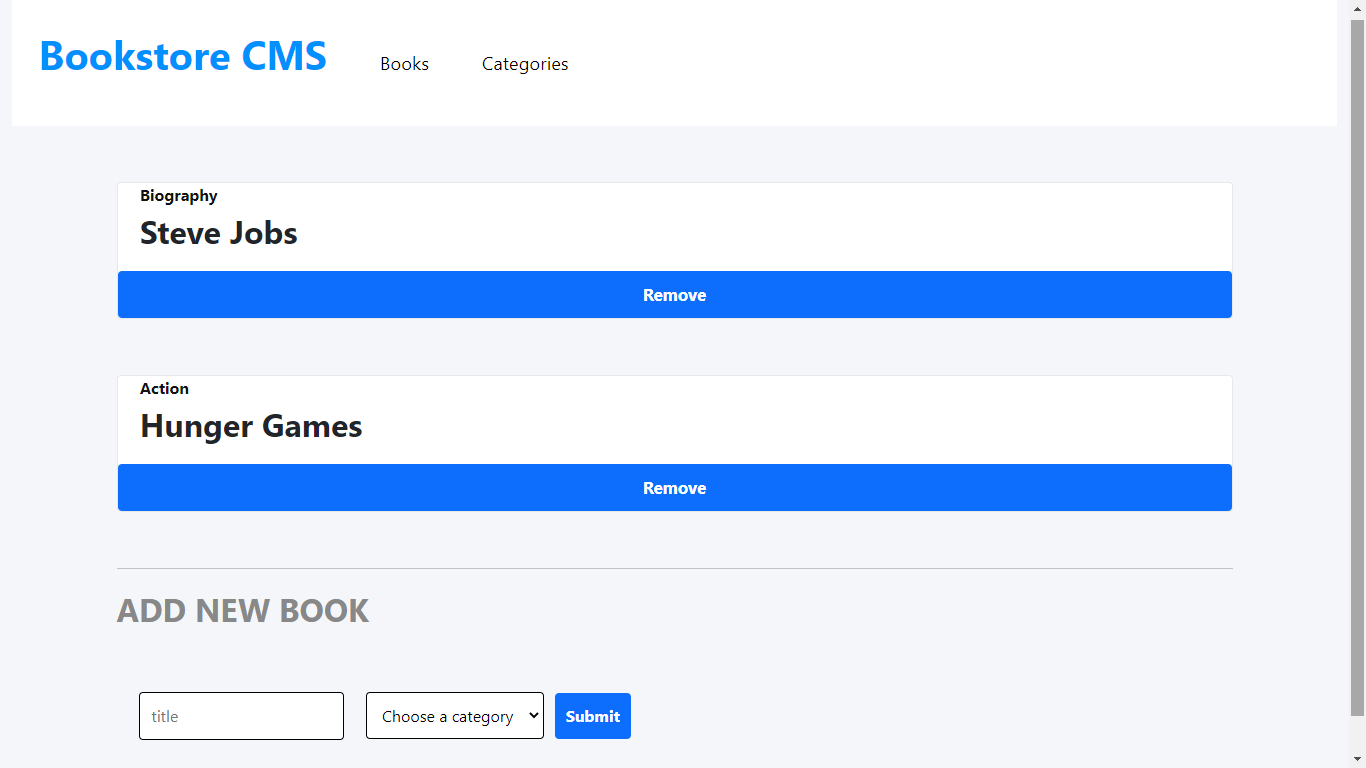
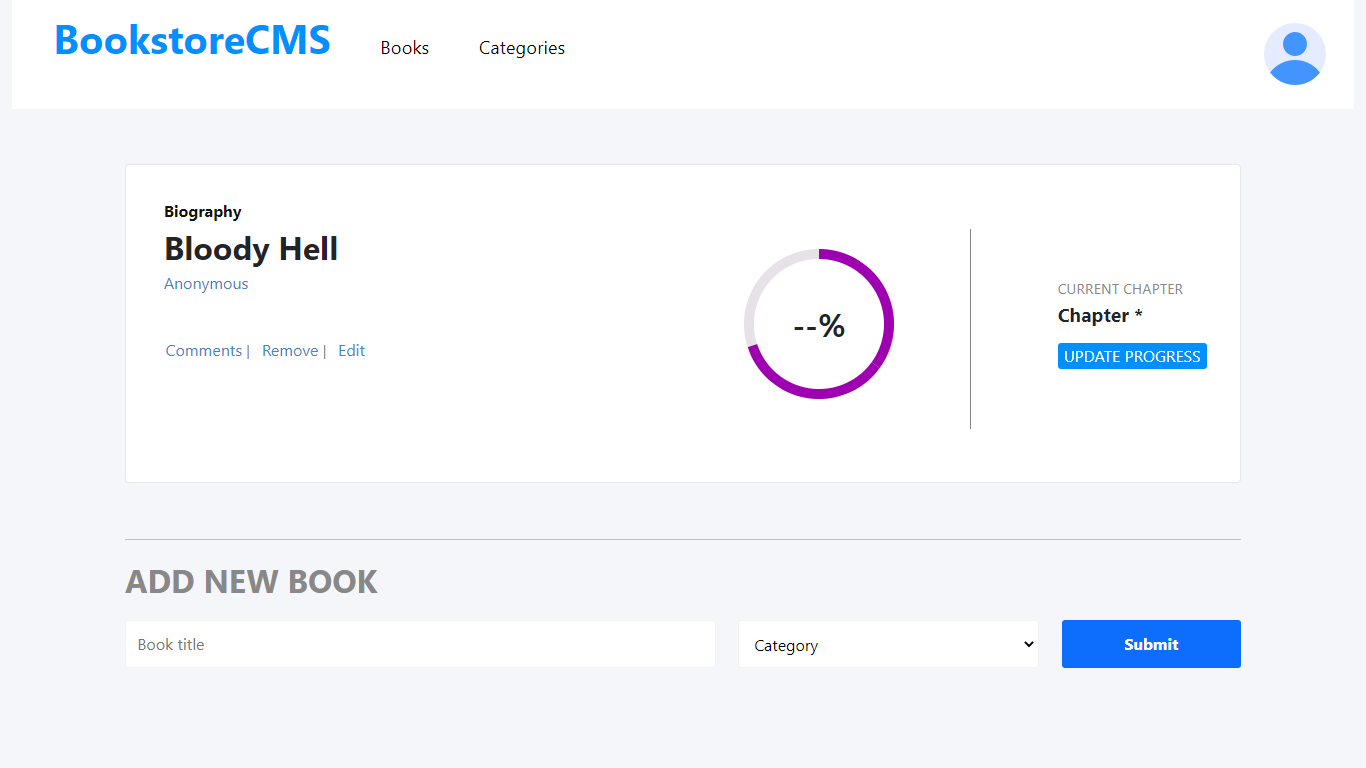
fix styling based on previous code review

diff --git a/src/App.css b/src/App.css
@@ -10,6 +10,33 @@ body {
 }
 
 /* card body */
+.some_chapter {
+  font-size: 120%;
+  font-weight: bold;
+  margin-bottom: 10%;
+}
+
+.current_chapter {
+  color: #888;
+  font-size: 90%;
+}
+
+.chapter_status {
+  display: flex;
+  flex-direction: column;
+  justify-content: center;
+}
+
+.content_container {
+  display: flex;
+  justify-content: space-between;
+}
+
+.span_container {
+  display: flex;
+  flex-direction: column;
+}
+
 .card {
   width: 100%;
   margin-top: 5%;
@@ -18,20 +45,29 @@ body {
   border: solid 1px #e8e8e8;
   background-color: #fff;
   transition: 0.4s;
+  padding: 3%;
 }
 
 .category_p {
   padding-left: 2%;
-  padding-right: 2%;
   font-weight: bold;
   color: #121212;
 }
 
 .title_p {
   padding-left: 2%;
-  padding-right: 2%;
   font-weight: bold;
   font-size: 200%;
+}
+
+.author {
+  padding-left: 2%;
+  color: #4386bf;
+  margin-bottom: 20%;
+}
+
+.card_containment {
+  display: flex;
 }
 
 /* form */
@@ -42,40 +78,76 @@ body {
 }
 
 /* button */
+.button_ul {
+  padding-left: 0%;
+}
+
+small {
+  color: #888;
+}
+
+.button_container {
+  display: flex;
+}
+
 button {
   font-weight: bold;
   border: none;
   border-radius: 4px;
 }
 
+.update_button {
+  border-radius: 3px;
+  background-color: #0290ff;
+  color: #fff;
+  font-weight: normal;
+}
+
 .submit_button {
-  padding: 1%;
-  width: auto;
+  /* width: 11.5rem;
+  height: 2.813rem;
+  margin: 1.188rem 0 0 2.125rem;
+  padding: 0.801rem 1.188rem 0.886rem 1.375rem; */
+  border-radius: 3px;
+  background-color: #0290ff;
+  width: 30%;
 }
 
 .remove_button {
-  padding: 1%;
-  font-size: 105%;
-  width: 100%;
+  background: #fff;
+  color: #4386bf;
+  font-weight: normal;
 }
 
 /* inputs */
 .title_input,
 .category_input {
-  margin: 1%;
-  width: auto;
-  padding: 1%;
+  /* width: 41.5rem;
+  height: 2.813rem;
+  margin: 1.188rem 2.125rem 0 0;
+  padding: 0.813rem 35.688rem 0.813rem 1.063rem; */
+  width: 100%;
   border-radius: 4px;
-  border: solid 0.5px;
+  border: solid 1px rgba(0, 0, 0, 0.05);
+  padding: 1%;
+  margin-right: 2%;
+}
+
+.category_input {
+  width: 50%;
 }
 
 form {
   margin-bottom: 5%;
+  display: flex;
 }
 
 /* navbar */
 .navContainer {
   background-color: #fff;
+  display: flex;
+  justify-content: space-between;
+  align-items: center;
 }
 
 .heading {
@@ -93,10 +165,85 @@ form {
 
 .navBarUl > li {
   padding: 2%;
+  padding-left: 10%;
+}
+
+.profile_icon {
+  margin-right: 2%;
 }
 
 .navLink {
   text-decoration: none;
   font-size: 115%;
   color: #000;
+}
+
+/* progress circle */
+.circle_status {
+  margin-left: 20%;
+}
+
+.circle-wrap {
+  margin: 50px auto;
+  width: 150px;
+  height: 150px;
+  background: #e6e2e7;
+  border-radius: 50%;
+}
+
+.circle-wrap .circle .mask,
+.circle-wrap .circle .fill {
+  width: 150px;
+  height: 150px;
+  position: absolute;
+  border-radius: 50%;
+}
+
+.circle-wrap .circle .mask {
+  clip: rect(0, 150px, 150px, 75px);
+}
+
+.circle-wrap .circle .mask.full,
+.circle-wrap .circle .fill {
+  animation: fill ease-in-out 3s;
+  transform: rotate(126deg);
+}
+
+.circle-wrap .circle .mask .fill {
+  clip: rect(0, 75px, 150px, 0);
+  background-color: #9e00b1;
+}
+
+@keyframes fill {
+  0% {
+    transform: rotate(0deg);
+  }
+
+  100% {
+    transform: rotate(126deg);
+  }
+}
+
+.circle-wrap .inside-circle {
+  width: 130px;
+  height: 130px;
+  border-radius: 50%;
+  background: #fff;
+  line-height: 130px;
+  text-align: center;
+  margin-top: 10px;
+  margin-left: 10px;
+  position: absolute;
+  z-index: 100;
+  font-weight: 700;
+  font-size: 2em;
+}
+
+.vl {
+  border-left: 0.5px solid #888;
+  height: 200px;
+  position: absolute;
+  left: 76%;
+  margin-left: -3px;
+  top: 20%;
 }

diff --git a/src/components/books/books/bookItem.js b/src/components/books/books/bookItem.js
@@ -12,10 +12,57 @@ const BookItem = ({ book }) => {
 
   return (
     <li className="card" key={book.item_id}>
-      <span className="category_p">{book.category}</span>
-      <p className="title_p">{book.title}</p>
-      <div>
-        <button className="remove_button bg-primary text-white" type="button" onClick={removeBookfromStore}>Remove</button>
+      <div className="content_container">
+        <div className="book_info">
+          <div className="span_container">
+            <span className="category_p">{book.category}</span>
+            <span className="title_p">{book.title}</span>
+            <span className="author">Anonymous</span>
+          </div>
+          <div className="button_container">
+            <ul className="button_ul button_container" />
+            <li>
+              <button className="remove_button" type="button">
+                {'Comments '}
+                <small className="stroke">|</small>
+              </button>
+            </li>
+            <li>
+              <button className="remove_button" type="button" onClick={removeBookfromStore}>
+                {'Remove '}
+                <small className="stroke">|</small>
+              </button>
+            </li>
+            <li>
+              <button className="remove_button" type="button">Edit</button>
+            </li>
+          </div>
+        </div>
+        <div className="circle_status">
+          <div className="circle-wrap">
+            <div className="circle">
+
+              <div className="mask full">
+                <div className="fill" />
+              </div>
+
+              <div className="mask half">
+                <div className="fill" />
+              </div>
+
+              <div className="inside-circle">
+                --%
+              </div>
+
+            </div>
+          </div>
+        </div>
+        <div className="vl" />
+        <div className="chapter_status">
+          <span className="current_chapter">CURRENT CHAPTER</span>
+          <span className="some_chapter">Chapter *</span>
+          <button type="button" className="update_button">UPDATE PROGRESS</button>
+        </div>
       </div>
     </li>
   );

diff --git a/src/components/books/books/inputBook.js b/src/components/books/books/inputBook.js
@@ -33,28 +33,21 @@ const InputBook = () => {
   return (
     <div>
       <p className="add_book_p">ADD NEW BOOK</p>
-      <form className="container mt-5">
+      <form>
         <input
-          className="col-sm-4 title_input"
+          className="title_input"
           value={title}
           onChange={inputTitleHandler}
           type="text"
-          placeholder="title"
+          placeholder="Book title"
         />
-        {/* <input
-          className="col-sm-4 category_input"
-          value={category}
-          onChange={inputCategoryHandler}
-          type="text"
-          placeholder="category"
-        /> */}
         <select
-          className="col-sm-4 category_input"
+          className="category_input"
           value={category}
           onChange={inputCategoryHandler}
         >
           <option value="none">
-            Choose a category
+            Category
           </option>
           <option value="Action">Action</option>
           <option value="Drama">Drama</option>
@@ -66,7 +59,7 @@ const InputBook = () => {
           <option value="Comedy">Comedy</option>
         </select>
         <button
-          className=" submit_button col-sm-4 bg-primary text-white"
+          className=" submit_button bg-primary text-white"
           type="button"
           onClick={submitBookToStore}
         >

diff --git a/src/components/navbar.js b/src/components/navbar.js
@@ -1,12 +1,13 @@
 import React from 'react';
 import { NavLink } from 'react-router-dom';
+import profile from './user.png';
 
 const Navbar = () => (
   <div className="navContainer">
-    <div>
+    <div className="nav_div">
       <nav className="navBar">
         <ul className="navBarUl">
-          <li key={0}><p className="heading">Bookstore CMS</p></li>
+          <li key={0}><p className="heading">BookstoreCMS</p></li>
           <li key={1}>
             <NavLink className="navLink" to="/">Books </NavLink>
           </li>
@@ -16,6 +17,7 @@ const Navbar = () => (
         </ul>
       </nav>
     </div>
+    <div className="profile_icon"><img alt="profile" src={profile} /></div>
   </div>
 );
 export default Navbar;

diff --git a/src/components/books/books/bookList.js b/src/components/books/books/bookList.js
@@ -8,13 +8,14 @@ const BookList = (props) => {
 
     <ul className="book_container">
       {books.length === 0 && (
-      <div>No books added yet</div>
+        <div>No books added yet</div>
       )}
       {books.map((book) => (
         <BookItem key={book.item_id} book={book} />
       ))}
 
     </ul>
+
   );
 };
 
